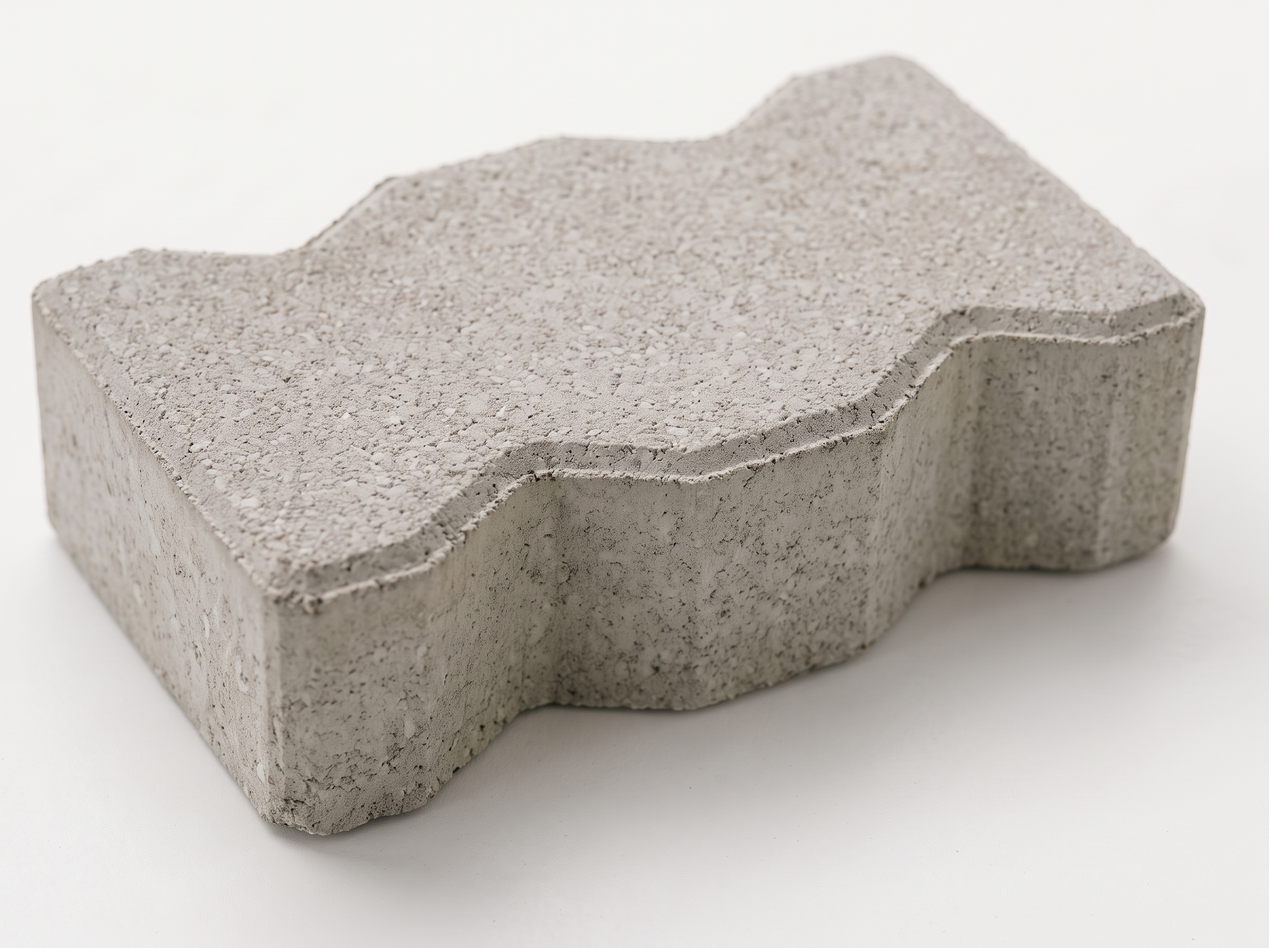
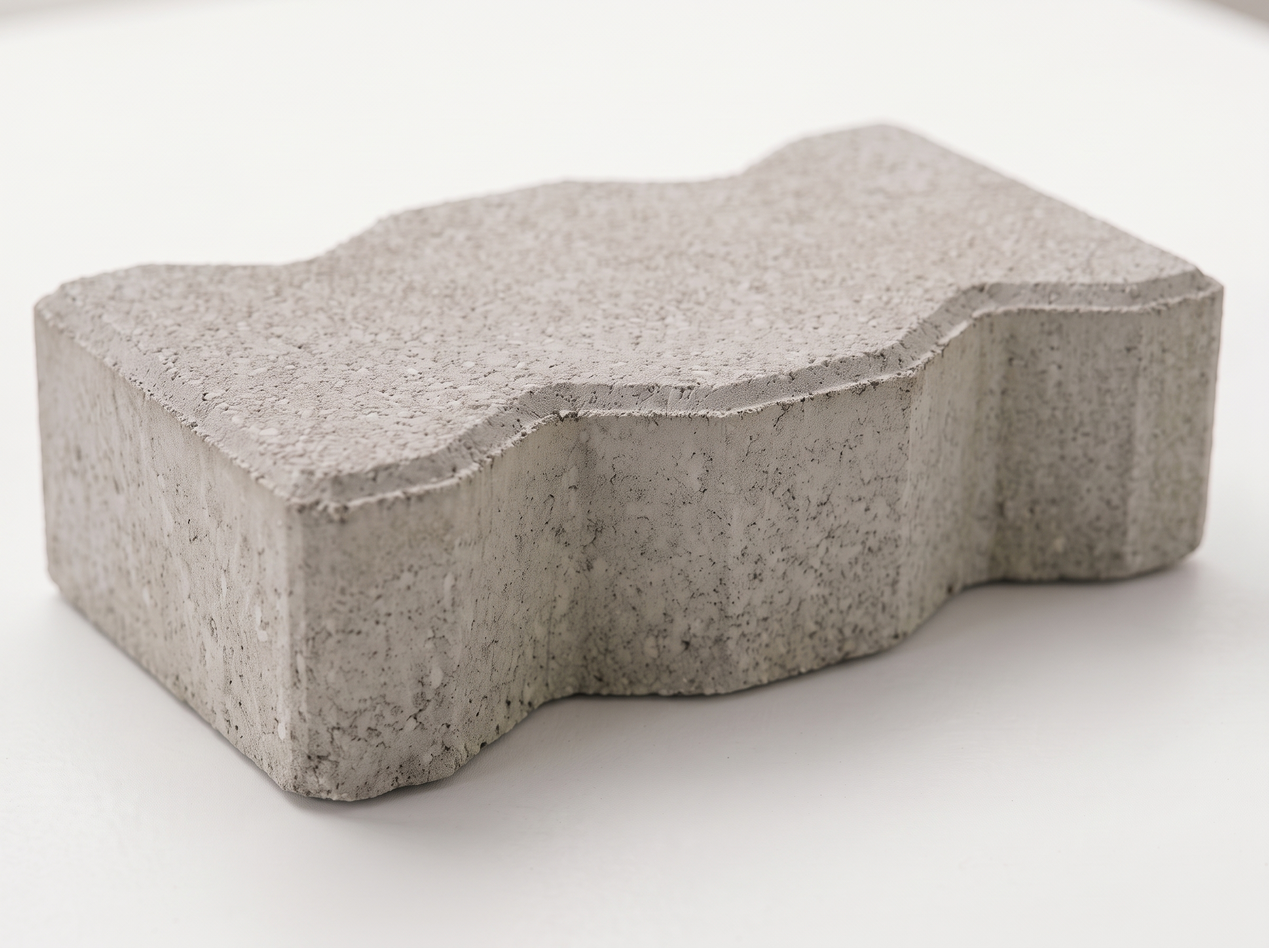
Add animations for hero entrance and product card reveals; update image description in index.html

diff --git a/js/animate.js b/js/animate.js
@@ -1,0 +1,129 @@
+/* Hero count-up and product-card reveal. Respects "reduce motion". */
+(function () {
+  "use strict";
+  var reduce = window.matchMedia("(prefers-reduced-motion: reduce)").matches;
+  if (reduce) return;
+
+  /* 1. Hero dimension strip counts up from 0 (final numbers stay in the HTML) */
+  document.querySelectorAll(".dim-strip b").forEach(function (el) {
+    var end = parseFloat(el.textContent);
+    if (isNaN(end)) return;
+    var start = null, delay = 450, dur = 1100;
+    el.textContent = "0";
+    function tick(ts) {
+      if (start === null) start = ts;
+      var t = Math.min(Math.max((ts - start - delay) / dur, 0), 1);
+      el.textContent = Math.round(end * (1 - Math.pow(1 - t, 3)));
+      if (t < 1) requestAnimationFrame(tick); else el.textContent = end;
+    }
+    requestAnimationFrame(tick);
+  });
+
+  /* 2. Product cards fade up as they scroll into view; re-runs after every filter/search */
+  var grid = document.getElementById("product-grid");
+  if (!grid || !("IntersectionObserver" in window)) return;
+
+  var io = new IntersectionObserver(function (entries) {
+    var k = 0;
+    entries.forEach(function (entry) {
+      if (!entry.isIntersecting) return;
+      var card = entry.target;
+      io.unobserve(card);
+      card.style.transitionDelay = (k++ * 70) + "ms";
+      card.classList.add("is-in");
+      card.addEventListener("transitionend", function done(e) {
+        if (e.target !== card) return;
+        card.classList.remove("will-reveal", "is-in");   // hand control back to hover styles
+        card.style.transitionDelay = "";
+        card.removeEventListener("transitionend", done);
+      });
+    });
+  }, { threshold: 0.12, rootMargin: "0px 0px -40px 0px" });
+
+  function prepare() {
+    grid.querySelectorAll(".card:not([data-anim])").forEach(function (card) {
+      card.setAttribute("data-anim", "1");
+      card.classList.add("will-reveal");
+      io.observe(card);
+    });
+  }
+  new MutationObserver(prepare).observe(grid, { childList: true });
+  prepare();
+})();
+
+
+
+/* 3. Section reveals: headings and content blocks fade up once as they enter the screen */
+(function () {
+  "use strict";
+  if (window.matchMedia("(prefers-reduced-motion: reduce)").matches) return;
+  if (!("IntersectionObserver" in window)) return;
+
+  var targets = document.querySelectorAll(
+    ".section-head, .about-grid > *, .why-list > li, .gallery > figure, " +
+    "#faq h2, #faq details, .quote-intro, #quote-form, .contact-grid > *"
+  );
+
+  var io = new IntersectionObserver(function (entries) {
+    var k = 0;
+    entries.forEach(function (entry) {
+      if (!entry.isIntersecting) return;
+      var el = entry.target;
+      io.unobserve(el);
+      el.style.transitionDelay = (k++ * 80) + "ms";   // siblings appear one after another
+      el.classList.add("is-in");
+      el.addEventListener("transitionend", function done(e) {
+        if (e.target !== el) return;
+        el.classList.remove("reveal", "is-in");
+        el.style.transitionDelay = "";
+        el.removeEventListener("transitionend", done);
+      });
+    });
+  }, { threshold: 0.15, rootMargin: "0px 0px -40px 0px" });
+
+  targets.forEach(function (el) { el.classList.add("reveal"); io.observe(el); });
+})();
+
+
+/* 7. Header: soft shadow + slightly smaller logo once the page is scrolled */
+(function () {
+  "use strict";
+  var header = document.querySelector(".site-header");
+  if (!header) return;
+  var ticking = false;
+  function update() {
+    ticking = false;
+    header.classList.toggle("is-scrolled", window.scrollY > 20);
+  }
+  window.addEventListener("scroll", function () {
+    if (!ticking) { ticking = true; requestAnimationFrame(update); }
+  }, { passive: true });
+  update();
+})();
+
+
+/* 5. Quote list feedback: button pop + counter bounce */
+(function () {
+  "use strict";
+  function restart(el, cls) {
+    el.classList.remove(cls);
+    void el.offsetWidth;            // force reflow so the animation can replay
+    el.classList.add(cls);
+  }
+
+  // Pop the button that was tapped (works in the product dialog too)
+  document.addEventListener("click", function (e) {
+    var btn = e.target.closest("[data-add]");
+    if (btn) restart(btn, "pop");
+  });
+
+  // Bounce the header counter only when the number actually changes
+  document.querySelectorAll("[data-list-count]").forEach(function (el) {
+    var last = el.textContent;
+    new MutationObserver(function () {
+      if (el.textContent === last) return;
+      last = el.textContent;
+      restart(el, "bump");
+    }).observe(el, { childList: true, characterData: true, subtree: true });
+  });
+})();

diff --git a/css/style.css b/css/style.css
@@ -261,4 +261,89 @@ dialog::backdrop{background:rgba(13,28,61,.7)}
 }
 
 
+/* Animations: hero entrance + product cards (all disabled by the reduced-motion rule below) */
+@keyframes rise{from{opacity:0;transform:translateY(24px)}}
+@keyframes slide-in{from{opacity:0;transform:translateX(36px) scale(.97)}}
+.hero-copy h1{animation:rise .7s cubic-bezier(.2,.7,.2,1) .05s both}
+.hero-copy p{animation:rise .7s cubic-bezier(.2,.7,.2,1) .2s both}
+.hero-actions{animation:rise .7s cubic-bezier(.2,.7,.2,1) .35s both}
+.hero-figure{animation:slide-in .9s cubic-bezier(.2,.7,.2,1) .2s both}
+.card{transition:transform .28s ease,box-shadow .28s ease}
+.card-media{overflow:hidden}
+.card-media img{transition:transform .5s ease}
+.card.will-reveal{opacity:0;transform:translateY(28px)}
+.card.will-reveal.is-in{opacity:1;transform:none;transition:opacity .6s ease,transform .6s cubic-bezier(.2,.7,.2,1)}
+@media (hover:hover){
+  .card:hover{transform:translateY(-6px);box-shadow:0 16px 32px rgba(20,40,84,.18)}
+  .card:hover .card-media img{transform:scale(1.045)}
+}
+
+
+/* Buttons: hover lift + press, and a soft pulse on the floating WhatsApp button */
+.btn{transition:background .2s,color .2s,border-color .2s,transform .15s ease,box-shadow .2s ease}
+@media (hover:hover){
+  .btn:hover{transform:translateY(-2px);box-shadow:0 6px 16px rgba(20,40,84,.22)}
+}
+.btn:active{transform:translateY(0) scale(.97);box-shadow:none}
+
+.wa-float:active{transform:scale(.94)}
+.wa-float::before{
+  content:"";position:absolute;inset:0;border-radius:50%;
+  border:2px solid var(--wa);opacity:0;pointer-events:none;
+  animation:wa-pulse 2.7s ease-out 2s infinite;
+}
+@keyframes wa-pulse{
+  0%{transform:scale(1);opacity:.55}
+  30%{transform:scale(1.7);opacity:0}
+  100%{transform:scale(1.7);opacity:0}
+}
+
+/* Section reveals */
+.reveal{opacity:0;transform:translateY(24px)}
+.reveal.is-in{opacity:1;transform:none;transition:opacity .6s ease,transform .6s cubic-bezier(.2,.7,.2,1)}
+
+
+/* Header on scroll */
+.site-header{transition:box-shadow .3s ease}
+.brand img{transition:transform .3s ease;transform-origin:left center}
+.site-header.is-scrolled{box-shadow:0 4px 18px rgba(20,40,84,.14)}
+.site-header.is-scrolled .brand img{transform:scale(.85)}
+
+
+/* FAQ: smooth open/close + plus icon that turns into a cross */
+summary{list-style:none;display:flex;justify-content:space-between;align-items:center;gap:1rem;min-height:48px}
+summary::-webkit-details-marker{display:none}
+summary::after{content:"+";flex:none;font:500 1.6rem/1 var(--font-body);color:var(--blue);transition:transform .3s ease}
+details[open] summary::after{transform:rotate(45deg)}
+
+details{interpolate-size:allow-keywords}
+details::details-content{height:0;overflow:clip;opacity:0;
+  transition:height .35s ease,opacity .35s ease,content-visibility .35s allow-discrete}
+details[open]::details-content{height:auto;opacity:1}
+
+
+
+/* Quote list feedback */
+@keyframes pop{0%{transform:scale(1)}40%{transform:scale(1.08)}100%{transform:scale(1)}}
+@keyframes bump{0%{transform:scale(1)}35%{transform:scale(1.45)}100%{transform:scale(1)}}
+[data-add].pop{animation:pop .35s ease}
+.list-btn .count.bump{animation:bump .4s ease}
+[data-add][aria-pressed="true"]{background:var(--navy);color:#fff}
+
+
+
+/* Applications gallery: slow zoom + caption slides up over the image */
+.gallery figure{position:relative}
+.gallery img{transition:transform .6s ease}
+.gallery figcaption{
+  position:absolute;left:0;right:0;bottom:0;
+  padding:2.6rem 1rem .85rem;color:#fff;
+  background:linear-gradient(to top,rgba(13,28,61,.9),rgba(13,28,61,0));
+}
+@media (hover:hover){
+  .gallery figcaption{transform:translateY(100%);opacity:0;transition:transform .4s ease,opacity .4s ease}
+  .gallery figure:hover figcaption{transform:none;opacity:1}
+  .gallery figure:hover img{transform:scale(1.06)}
+}
+
 @media (prefers-reduced-motion:reduce){*,*::before,*::after{transition:none!important;animation:none!important;scroll-behavior:auto!important}}

diff --git a/index.html b/index.html
@@ -158,7 +158,7 @@
     <div class="wrap">
       <div class="section-head">
         <h2 id="apps-title">Where these products are used</h2>
-        <p>Illustrative images taken from our product flyers. Suitability depends on the project, so please confirm the right product with us.</p>
+        <p>The images below illustrate our standard manufacturing specifications. For tailored recommendations and technical guidance suited to your specific site, please get in touch with our experts.</p>
       </div>
       <div class="gallery">
         <figure><img src="assets/images/ashland-uni-80-driveway.jpg" alt="Wave-profile concrete paving forming a driveway beside a raised planter" loading="lazy" width="1200" height="472"><figcaption>Driveways and parking areas</figcaption></figure>
@@ -278,5 +278,6 @@
 
 <script src="js/product-select.js"></script>
 <script src="js/menu-enhance.js"></script>
+<script src="js/animate.js"></script>
 </body>
 </html>
